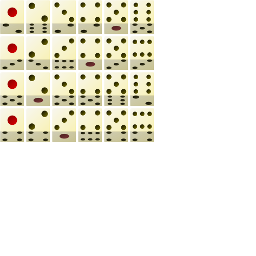
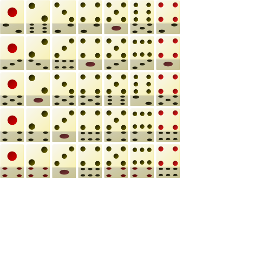
中国ルールでサイコロの4を赤くする
中国のサイコロは4も赤い

Changed region(s): [[0.0, 0.0, 0.7188, 0.7188]]

diff --git a/graphic/scenes/table/showdice.cpp b/graphic/scenes/table/showdice.cpp
@@ -16,13 +16,17 @@ void GameTableScreen::DiceReconst::ShowDice(const GameTable* gameStat) {
 	const PlayerID dicePlayer = (gameStat->GameRound + dicePlayerOffset) %
 		(gameStat->chkGameType(SanmaT) ? 3 : 4) +
 		(gameStat->chkGameType(Sanma4) ? ((gameStat->Dice[0].Number + gameStat->Dice[1].Number - 1) / 3) : 0);
+	const unsigned int diceFace1 = ((gameStat->gameType & GuobiaoMJ) && (gameStat->Dice[diceID + 0].Number == 4)) ? 7 : gameStat->Dice[diceID + 0].Number;
+	const unsigned int diceFace2 = ((gameStat->gameType & GuobiaoMJ) && (gameStat->Dice[diceID + 1].Number == 4)) ? 7 : gameStat->Dice[diceID + 1].Number;
+	const unsigned int diceDirection1 = ((gameStat->gameType & GuobiaoMJ) && (gameStat->Dice[diceID + 0].Direction == 3)) ? 4 : gameStat->Dice[diceID + 0].Direction;
+	const unsigned int diceDirection2 = ((gameStat->gameType & GuobiaoMJ) && (gameStat->Dice[diceID + 1].Direction == 3)) ? 4 : gameStat->Dice[diceID + 1].Direction;
 	const RECT rect1 = {
-		static_cast<int32_t>((DiceWidth + DicePadding) * (gameStat->Dice[diceID + 0].Number - 1)), static_cast<int32_t>((DiceHeight + DicePadding) * (gameStat->Dice[diceID + 0].Direction    )),
-		static_cast<int32_t>((DiceWidth + DicePadding) * (gameStat->Dice[diceID + 0].Number    )), static_cast<int32_t>((DiceHeight + DicePadding) * (gameStat->Dice[diceID + 0].Direction + 1)),
+		static_cast<int32_t>((DiceWidth + DicePadding) * (diceFace1 - 1)), static_cast<int32_t>((DiceHeight + DicePadding) * (diceDirection1    )),
+		static_cast<int32_t>((DiceWidth + DicePadding) * (diceFace1    )), static_cast<int32_t>((DiceHeight + DicePadding) * (diceDirection1 + 1)),
 	};
 	const RECT rect2 = {
-		static_cast<int32_t>((DiceWidth + DicePadding) * (gameStat->Dice[diceID + 1].Number - 1)), static_cast<int32_t>((DiceHeight + DicePadding) * (gameStat->Dice[diceID + 1].Direction    )),
-		static_cast<int32_t>((DiceWidth + DicePadding) * (gameStat->Dice[diceID + 1].Number    )), static_cast<int32_t>((DiceHeight + DicePadding) * (gameStat->Dice[diceID + 1].Direction + 1)),
+		static_cast<int32_t>((DiceWidth + DicePadding) * (diceFace2 - 1)), static_cast<int32_t>((DiceHeight + DicePadding) * (diceDirection2    )),
+		static_cast<int32_t>((DiceWidth + DicePadding) * (diceFace2    )), static_cast<int32_t>((DiceHeight + DicePadding) * (diceDirection2 + 1)),
 	};
 	switch (playerRelative(dicePlayer, gameStat->PlayerID)) {
 	case sSelf:
